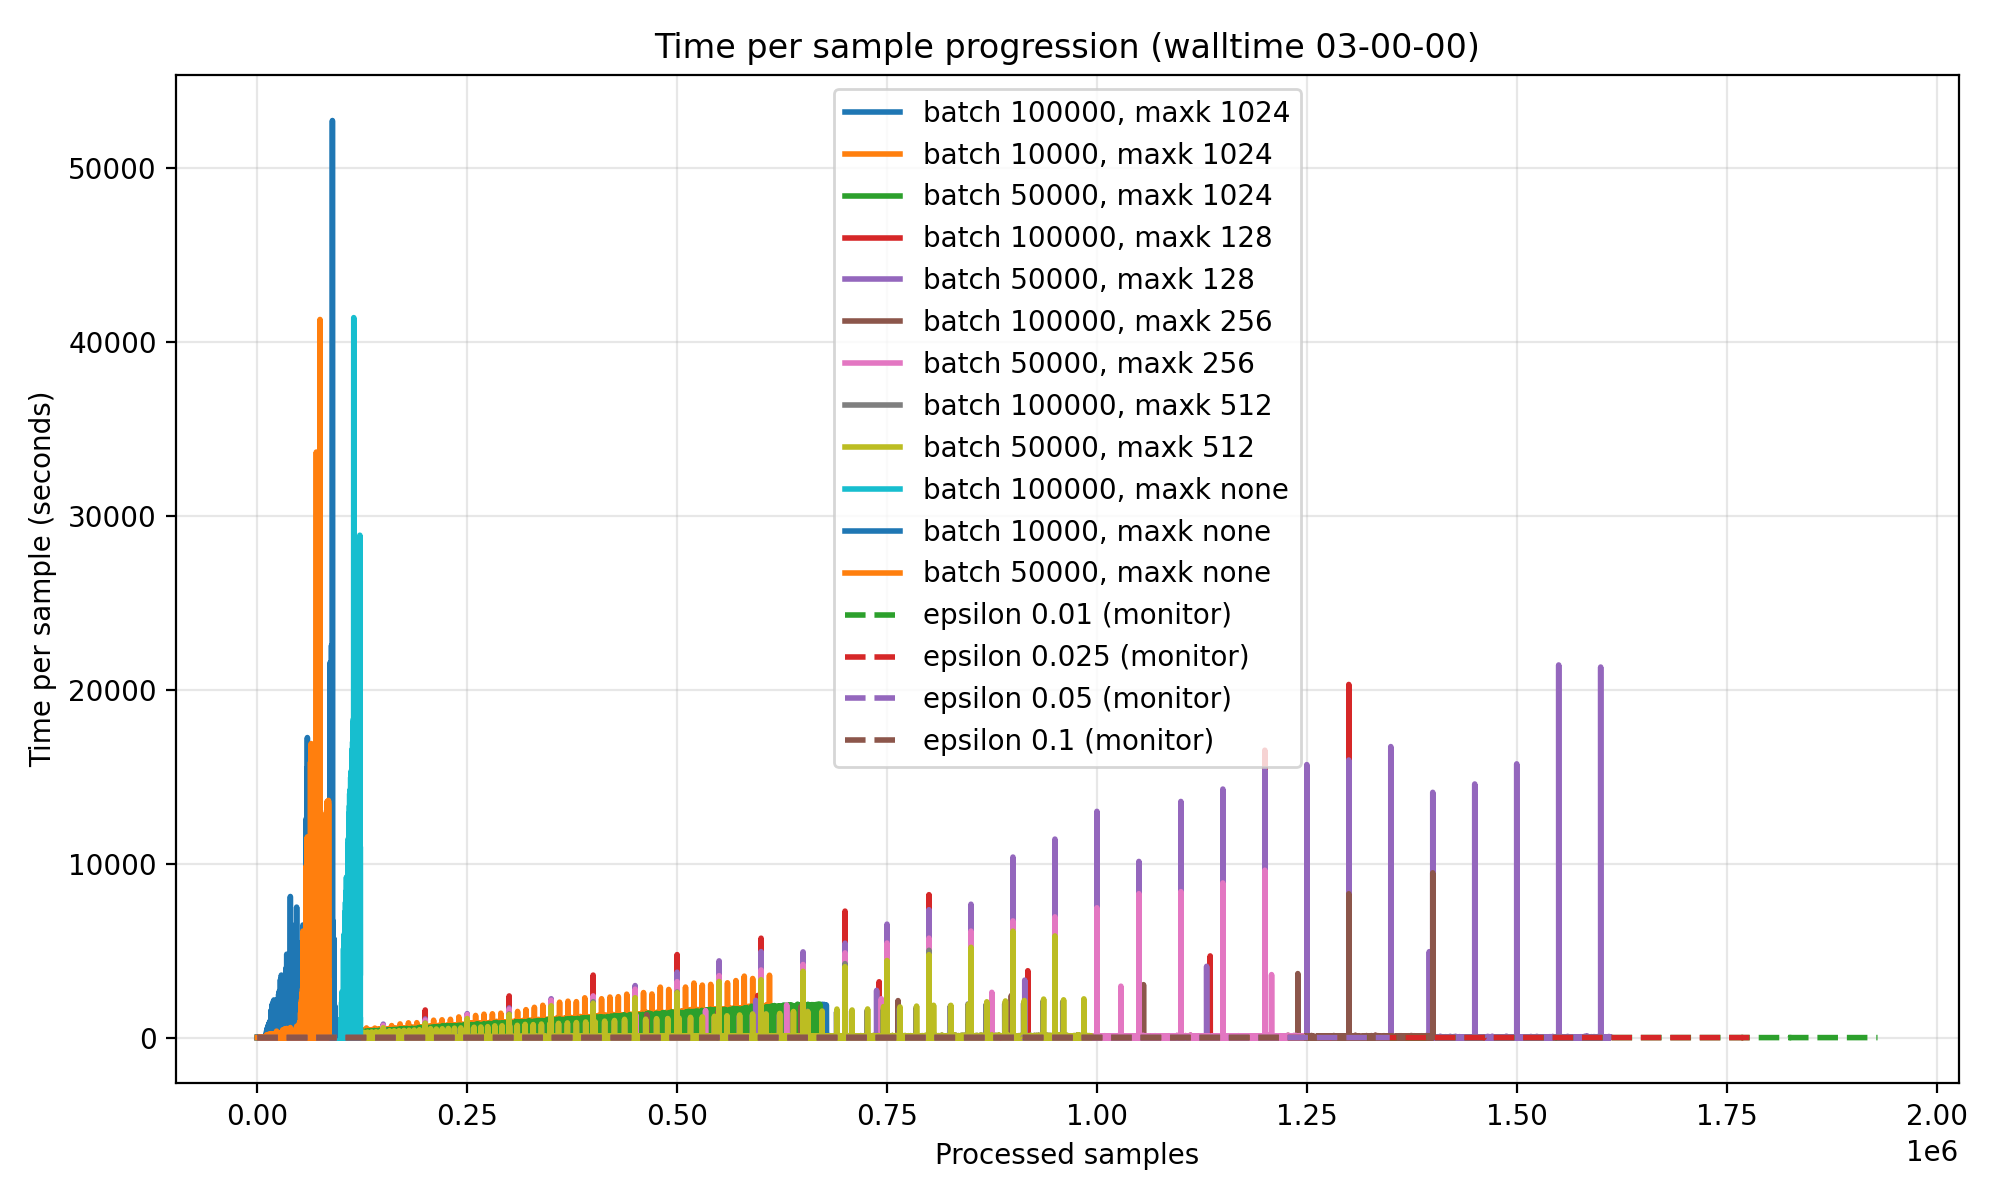
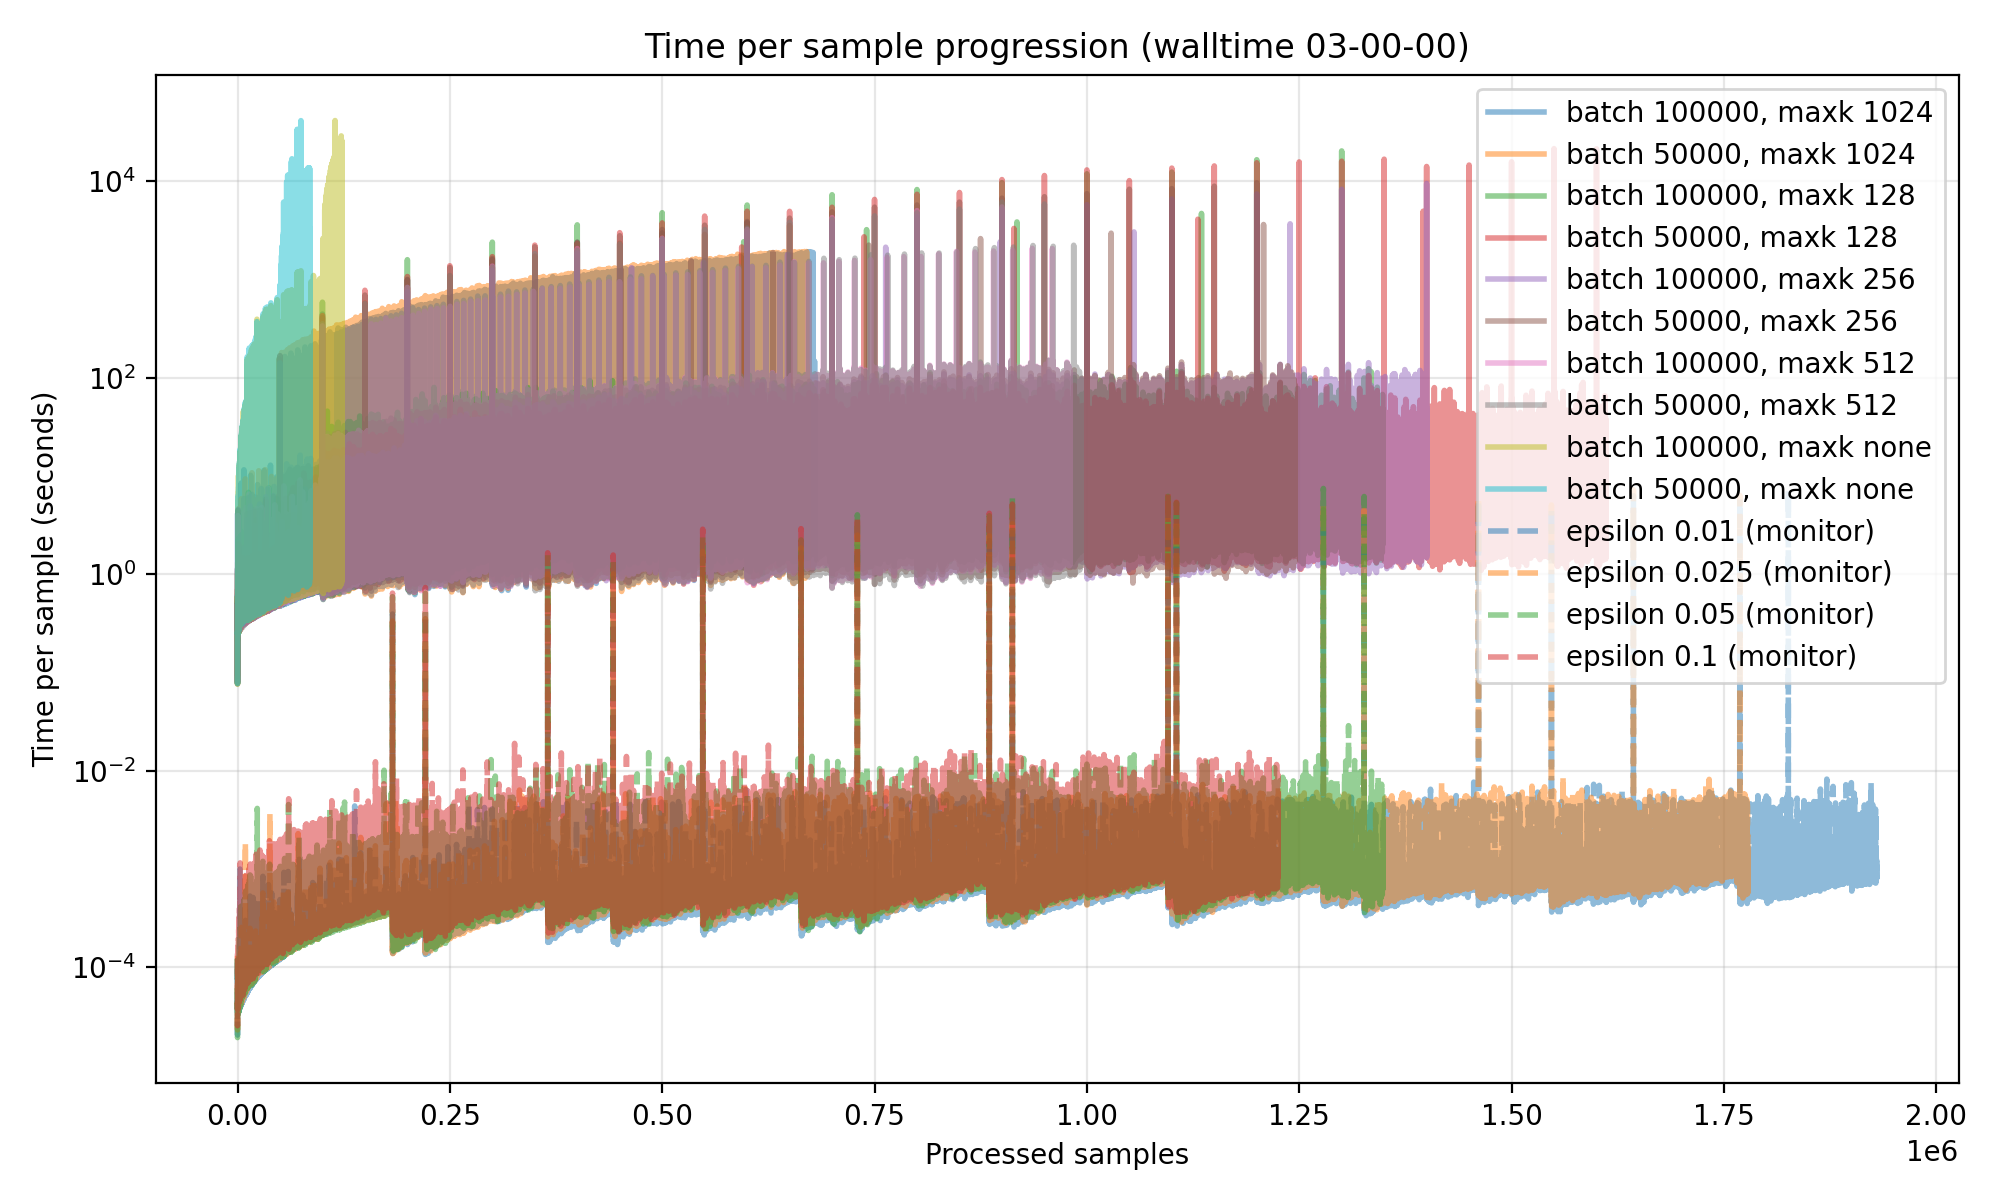
time in samples: add logscale

diff --git a/results/quantitative/plot_time_per_sample.py b/results/quantitative/plot_time_per_sample.py
@@ -46,7 +46,7 @@ def main() -> None:
     parser.add_argument(
         "--output",
         type=Path,
-        help="Optional output image path (default: <results_dir>/time_per_sample_<walltime>.png)",
+        help="Optional output image path (default: <results_dir>/../time_per_sample_<walltime>.png)",
     )
     parser.add_argument(
         "--show",
@@ -74,8 +74,10 @@ def main() -> None:
 
     fig, ax = plt.subplots(figsize=(10, 6))
 
+    line_alpha = 0.5
+
     for series in batch_series:
-        ax.plot(series.x, series.y, label=series.label, linewidth=2.0)
+        ax.plot(series.x, series.y, label=series.label, linewidth=2.0, alpha=line_alpha)
     for series in epsilon_series:
         ax.plot(
             series.x,
@@ -83,8 +85,10 @@ def main() -> None:
             label=series.label,
             linewidth=2.0,
             linestyle="--",
+            alpha=line_alpha,
         )
 
+    ax.set_yscale("log")
     ax.set_xlabel("Processed samples")
     ax.set_ylabel("Time per sample (seconds)")
     ax.set_title(f"Time per sample progression (walltime {walltime_key})")
@@ -120,6 +124,7 @@ def _collect_batch_series(results_dir: Path, walltime_key: str) -> Iterable[Seri
 
         for batch_dir in target_dirs:
             batchsize = _parse_batchsize(batch_dir.name)
+            if batchsize == '10000': continue
             payload = _load_latest_payload(batch_dir)
             if payload is None:
                 continue
@@ -217,7 +222,7 @@ def _parse_batchsize(name: str) -> str:
 def _resolve_output_path(output: Path | None, results_dir: Path, walltime_key: str) -> Path:
     if output:
         return output.expanduser().resolve()
-    default_name = f"time_per_sample_{walltime_key}.png"
+    default_name = f"../time_per_sample_{walltime_key}.png"
     return results_dir / default_name
 
 
